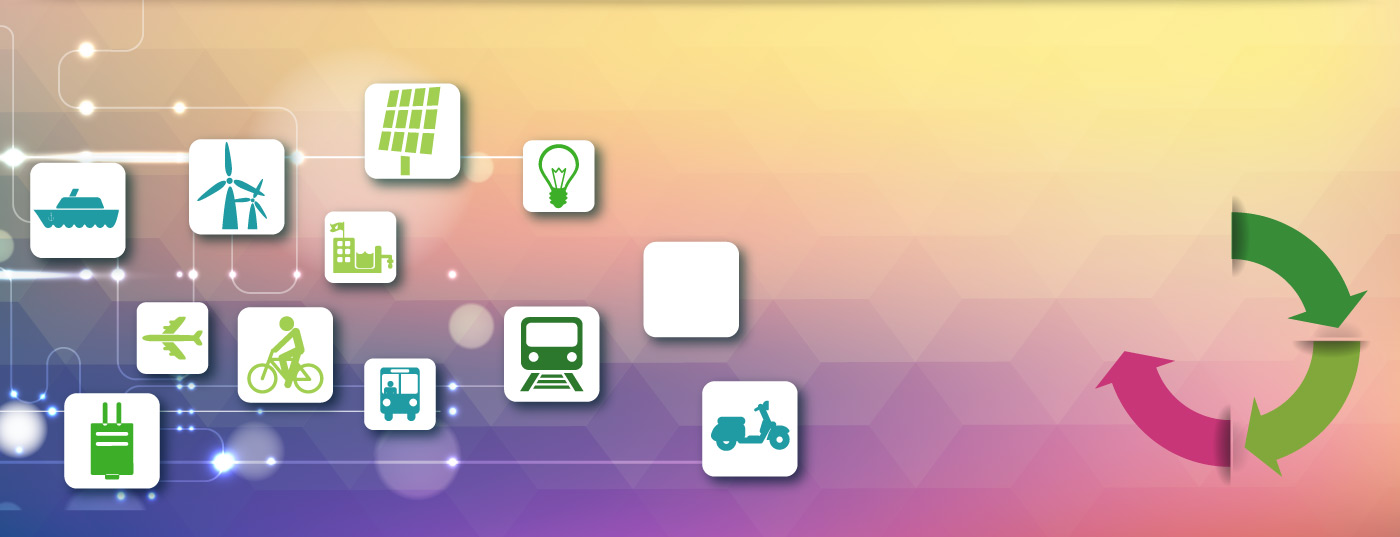
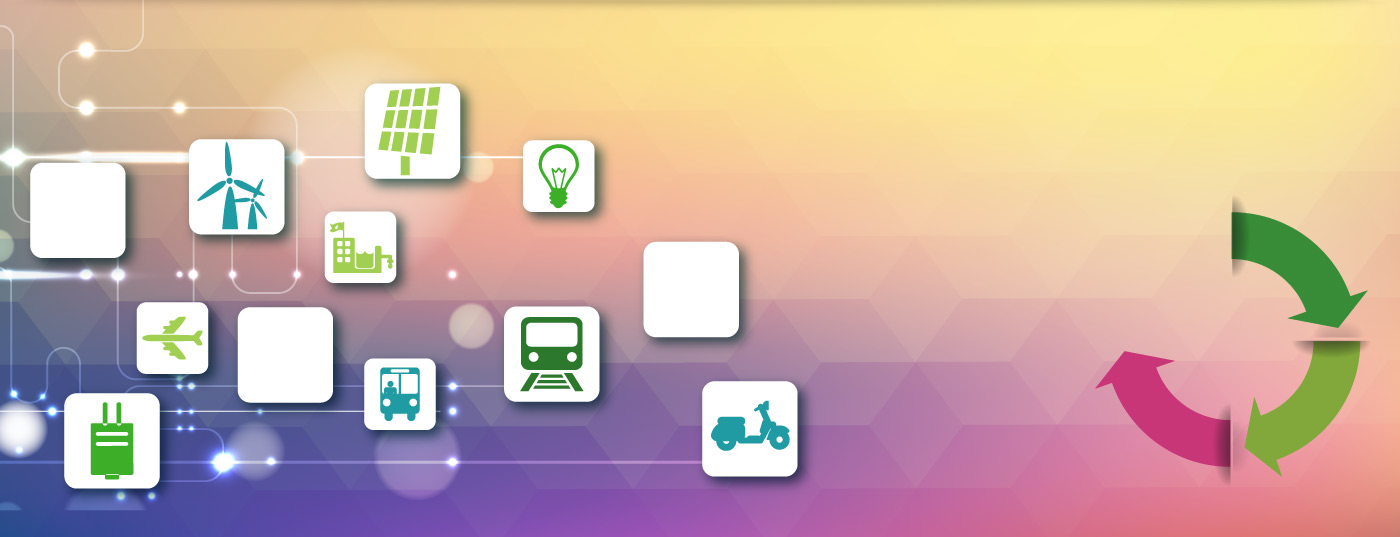
banner2 追加2icon動畫

Changed region(s): [[0.1536, 0.5959, 0.2457, 0.7449], [0.0, 0.3575, 0.0921, 0.4469]]

diff --git a/Work.WebProj/Content/css/index.css b/Work.WebProj/Content/css/index.css
@@ -339,7 +339,7 @@ hr {
 .wrap::after, #header::after, #footer::after, #main::after, .clearfix::after {
   display: table;
   clear: both; }
-  .wrap::after, #header::after, #footer::after, #main::after, .clearfix::after, #header::before, #menu a::before, .list-dot li::before, .hover-underline::before, .car::before, .content::after, .sidebar::before {
+  .wrap::after, #header::after, #footer::after, #main::after, .clearfix::after, #header::before, #menu a::before, .list-dot li::before, .hover-underline::before, .motion::before, .content::after, .sidebar::before {
     content: ''; }
 
 .icon-tel::before, .icon-fax::before, .circle, .list-dot li::before {
@@ -1048,13 +1048,11 @@ html, body {
   animation-duration: 3.5s;
   left: -9.5%; }
 
-.car {
-  top: 49%;
-  left: 46.1%;
+.motion {
   overflow: hidden;
   width: 6.6%;
   height: 9%; }
-  .car::before {
+  .motion::before {
     display: block;
     background: url(../images/index/car.png?v=1) 0 0 no-repeat;
     background-size: contain;
@@ -1088,6 +1086,28 @@ html, body {
     -ms-transform: translateX(-100%);
     -webkit-transform: translateX(-100%);
     transform: translateX(-100%); } }
+.car {
+  top: 49%;
+  left: 46.1%; }
+
+.ship {
+  top: 34.5%;
+  left: 2.2%; }
+  .ship::before {
+    background-image: url(../images/index/ship.png);
+    animation-direction: alternate;
+    animation-timing-function: ease-out;
+    animation-duration: 5s; }
+
+.bicycle {
+  top: 60%;
+  left: 17.1%;
+  height: 12%; }
+  .bicycle::before {
+    background-image: url(../images/index/bicycle.png);
+    animation-duration: 8s;
+    animation-timing-function: linear; }
+
 #main {
   padding: 13px;
   padding-bottom: 10%; }
@@ -1118,13 +1138,16 @@ html, body {
     height: 60%;
     max-height: 350px;
     position: absolute;
+    top: 155px;
     right: 25.9%;
-    bottom: -1%;
     left: 13px; }
     @media (min-width: 75em) {
       .content::after {
         height: 100%;
-        bottom: -3.6%; } }
+        top: 12.5%; } }
+    @media (min-width: 87.5em) {
+      .content::after {
+        top: 22.5%; } }
     @media (max-width: 39.9375em) {
       .content::after {
         top: 130px;

diff --git a/Work.WebProj/Content/sass/index.scss b/Work.WebProj/Content/sass/index.scss
@@ -137,8 +137,7 @@ $swiper-button:           false;
 }
 .w1 { left: 11.3%; }
 .w2 { animation-duration: 3.5s; left: -9.5%; }
-.car {
-    top: 49%; left: 46.1%;
+.motion {
     overflow: hidden;
 
     @include size(6.6%,9%);
@@ -152,6 +151,28 @@ $swiper-button:           false;
             50%  { @include transform(translateX(0)); }
             100% { @include transform(translateX(-100%)); }
         }
+    }
+}
+.car {
+    top: 49%; left: 46.1%;
+}
+.ship {
+    top: 34.5%;  left: 2.2%;
+    &::before {
+        background-image: url(#{$img-path2}/ship.png);
+        animation-direction: alternate;
+        animation-timing-function: ease-out;
+        animation-duration: 5s;
+    }
+}
+.bicycle {
+    top: 60%;
+    left: 17.1%;
+    height: 12%;
+    &::before {
+        background-image: url(#{$img-path2}/bicycle.png);
+        animation-duration: 8s;
+        animation-timing-function: linear;
     }
 }
 
@@ -184,15 +205,17 @@ $swiper-button:           false;
         padding-bottom: 16%;
     }
 
+    // 下方的插圖
     @include el(after) {
         background: url(#{$img-path2}/pic.png) right bottom no-repeat;
         background-size: contain;
         height: 60%;
         max-height: 350px;
 
-        @include absolute(left 13px right 25.9% bottom -1%);
+        @include absolute(left 13px right 25.9% top 155px);
 
-        @include mq(wide) { height: 100%; bottom: -3.6%}
+        @include mq(wide) { height: 100%; top: 12.5% }
+        @include mq(wider) { top: 22.5% }
         @include mq-max(break(phone-plus,-1)) {
             top: 130px;
             right: 13px;
